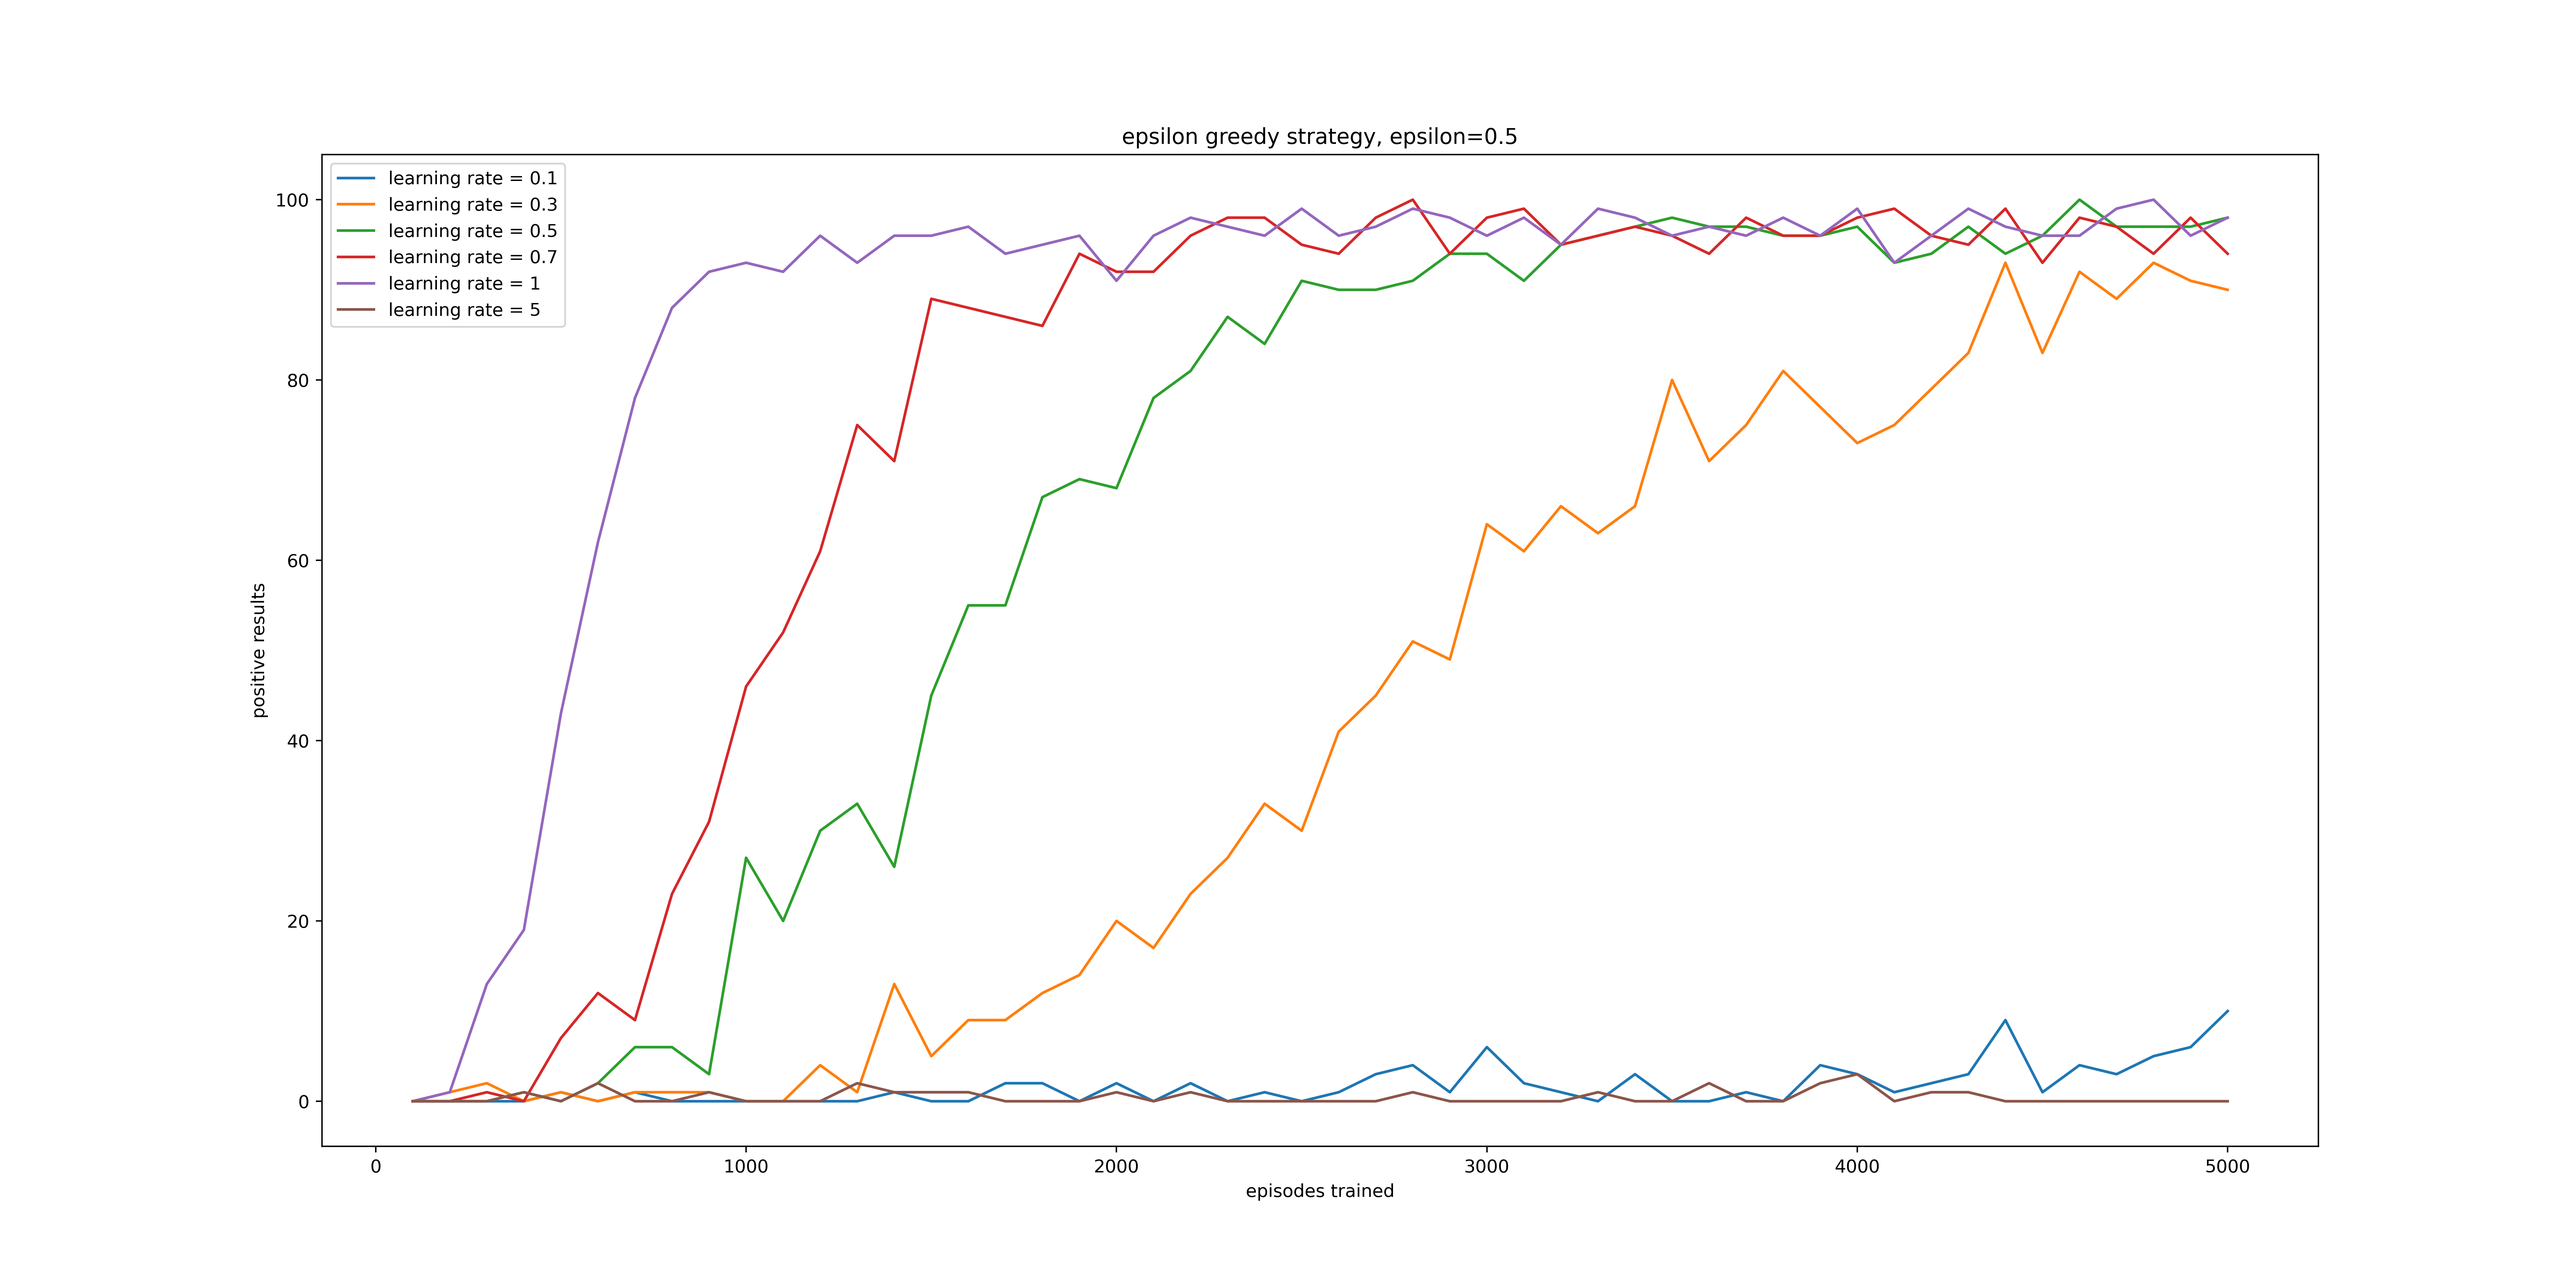
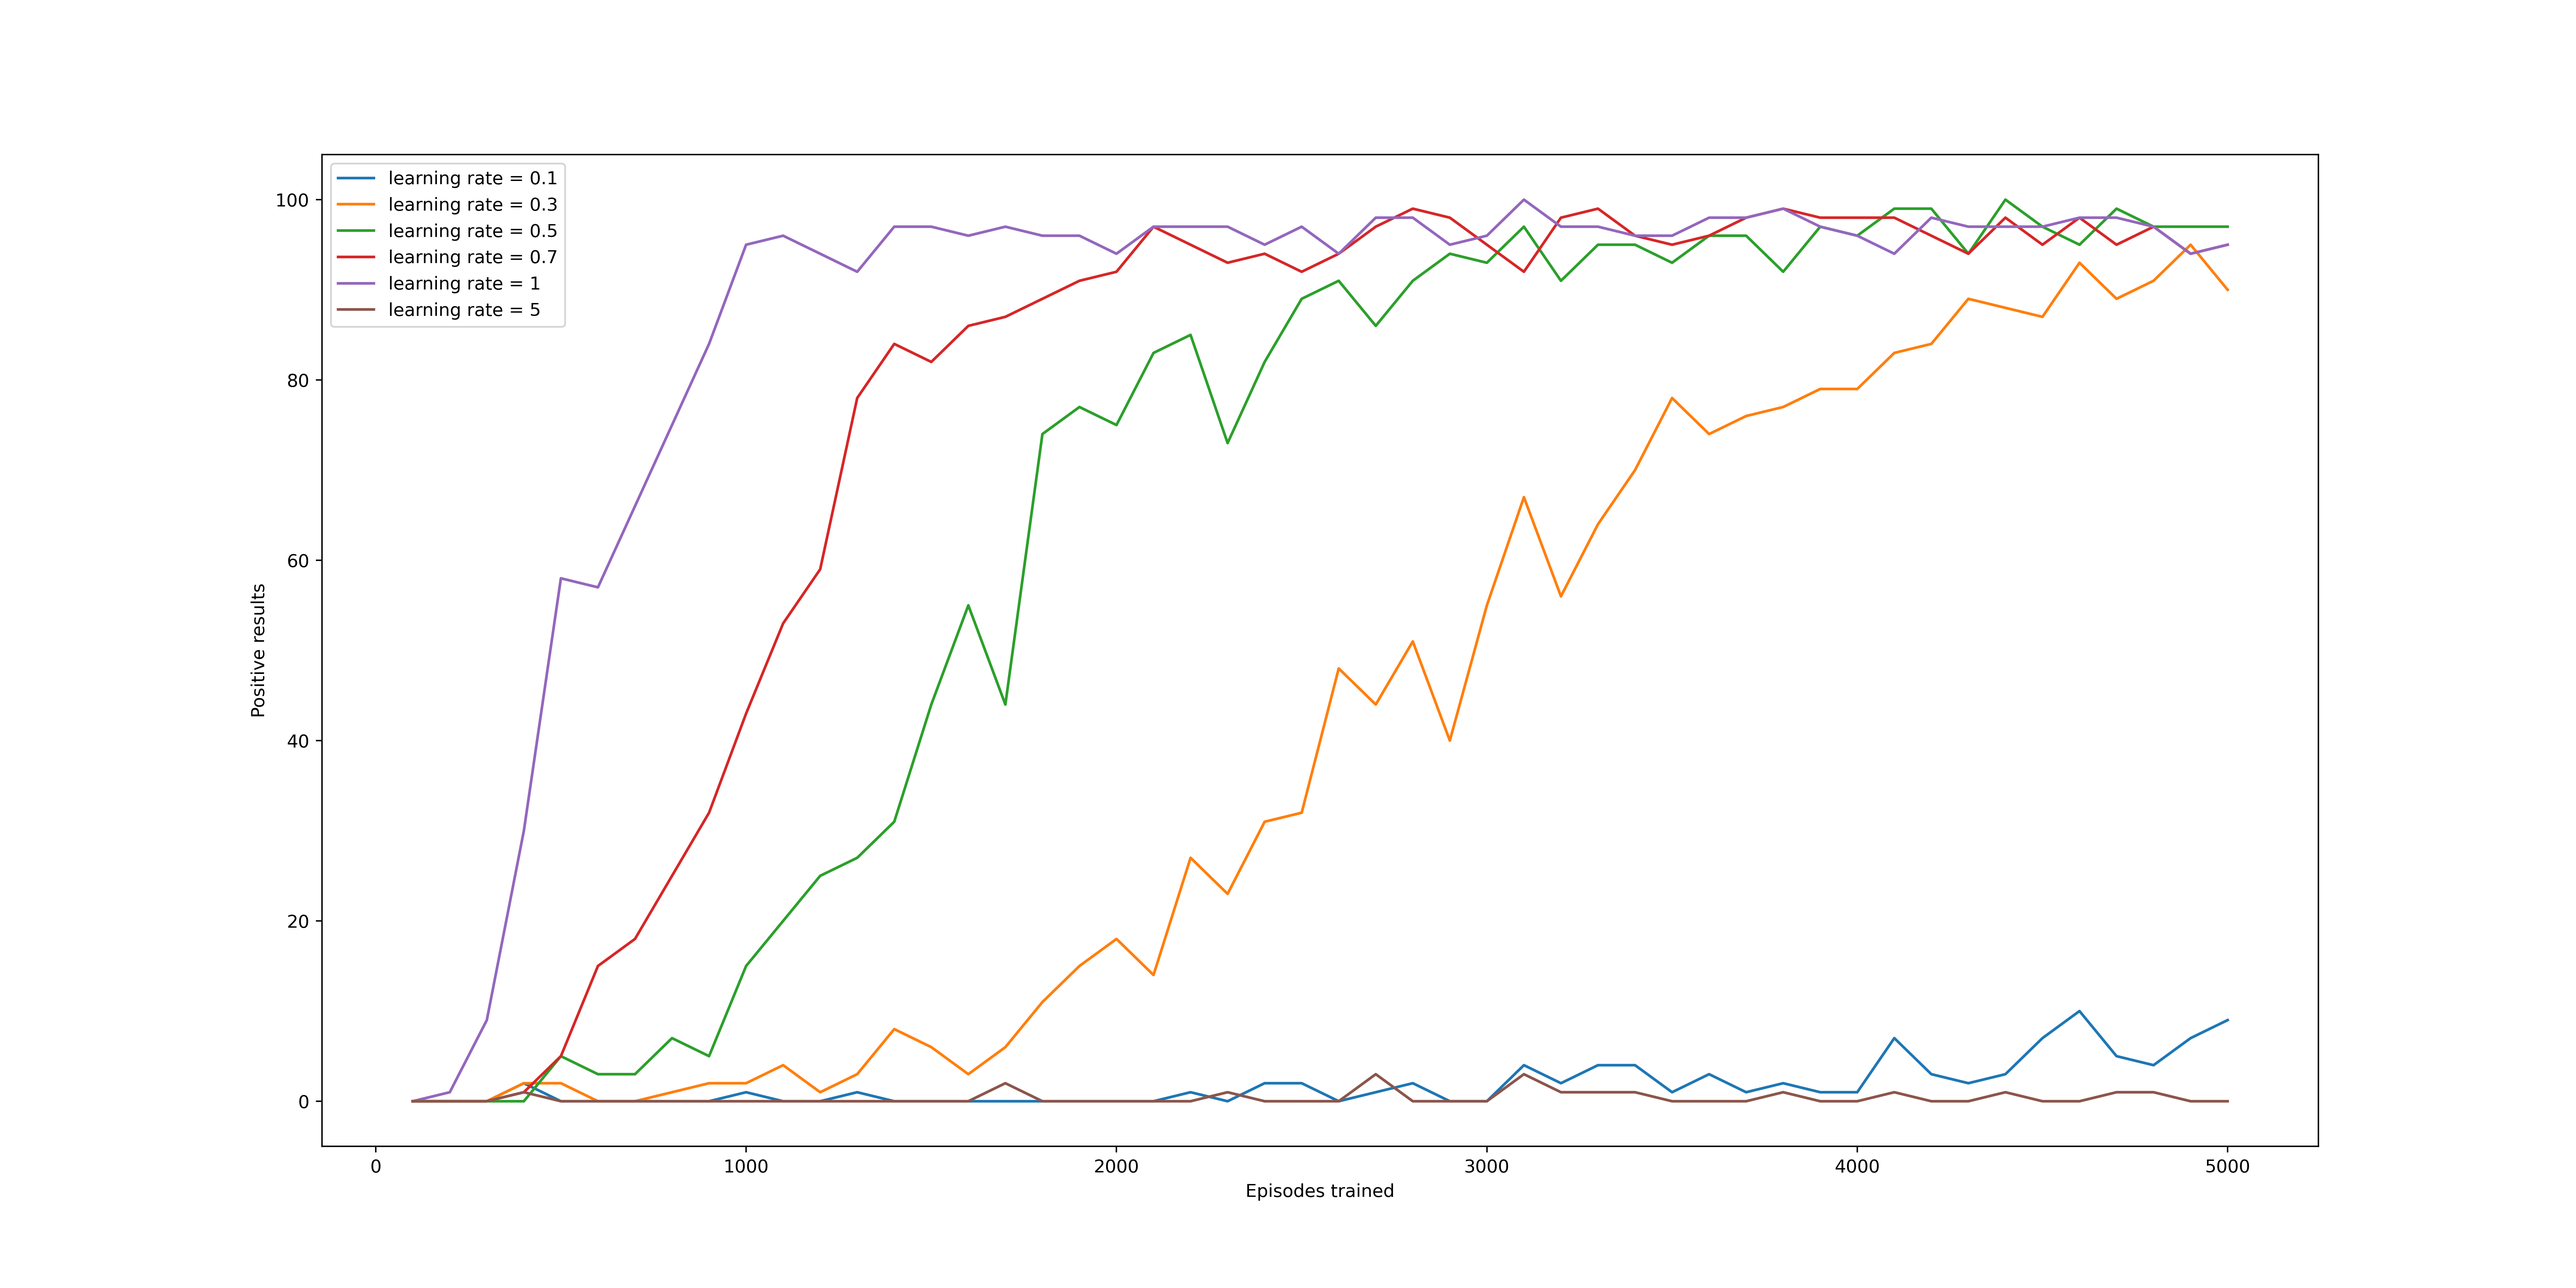
implemented numpy

diff --git a/Qlearning/Qtest.py b/Qlearning/Qtest.py
@@ -9,24 +9,28 @@ def test_boltzmann():
     moves = 50
     test_moves = 50
     learning_rates = [0.1,0.3,0.5,0.7,1,5]
+    taus = [0.1,1,10]
     Q_learn = Q_learning(initial_value=0, learning_rate=0.5, env=envi, discount_factor=0.1, from_jason=False, tau=2)
-    fig, ax = plt.subplots()
-    fig.set_figheight(10)
-    fig.set_figwidth(20)
-    ax.set_xlabel("Episodes trained")
-    ax.set_ylabel("Positive results")
-    for learning_rate in learning_rates:
-        results, episodesList = [], []
-        Q_learn.learning_rate = learning_rate
-        for i in range(50):
-            Q_learn.trainBoltzmann(episodes=episodes, turns=moves)
-            miniresults = Q_learn.test(episodes=episodes, turns=test_moves, useBoltzmann=True)
-            results.append(miniresults["boltzmann"]["positive"])
-            episodesList.append((i+1)*episodes)
-        Q_learn.resetTable()
-        ax.plot(episodesList, results, label=f"learning rate = {learning_rate}")
-        ax.legend()
-    fig.savefig("graphs/boltzmann", dpi=400)
+
+    for tau in taus:
+        Q_learn.tau = tau;
+        fig, ax = plt.subplots()
+        fig.set_figheight(10)
+        fig.set_figwidth(20)
+        ax.set_xlabel("Episodes trained")
+        ax.set_ylabel("Positive results")
+        for learning_rate in learning_rates:
+            results, episodesList = [], []
+            Q_learn.learning_rate = learning_rate
+            for i in range(50):
+                Q_learn.trainBoltzmann(episodes=episodes, turns=moves)
+                miniresults = Q_learn.test(episodes=episodes, turns=test_moves, useBoltzmann=True)
+                results.append(miniresults["boltzmann"]["positive"])
+                episodesList.append((i+1)*episodes)
+            Q_learn.resetTable()
+            ax.plot(episodesList, results, label=f"learning rate = {learning_rate}")
+            ax.legend()
+        fig.savefig(f"graphs/boltzmann,tau={tau}".replace('.', ','), dpi=400)
     envi.close()
 
 def test_greedy():
@@ -36,7 +40,7 @@ def test_greedy():
     moves = 50
     test_moves = 50
     learning_rates = [0.1,0.3,0.5,0.7,1,5]
-    Q_learn = Q_learning(initial_value=0, learning_rate=0.5, env=envi, discount_factor=0.1, from_jason=False, tau=2)
+    Q_learn = Q_learning(initial_value=0, learning_rate=0.5, env=envi, discount_factor=0.1, from_jason=False, tau=0.0000000000001)
     fig, ax = plt.subplots()
     fig.set_figheight(10)
     fig.set_figwidth(20)
@@ -53,9 +57,68 @@ def test_greedy():
         Q_learn.resetTable()
         ax.plot(episodesList, results, label=f"learning rate = {learning_rate}")
         ax.legend()
-    fig.savefig("graphs/greedy1", dpi=400)
+    fig.savefig("graphs/greedy", dpi=400)
+    envi.close()
+
+def test_epsilon_greedy():
+    envi = gym.make('Taxi-v3')
+    
+    episodes = 100
+    moves = 50
+    test_moves = 50
+    learning_rates = [0.1,0.3,0.5,0.7,1,5]
+    epsilons = [0.3, 0.5, 0.7]
+    Q_learn = Q_learning(initial_value=0, learning_rate=0.5, env=envi, discount_factor=0.1, from_jason=False, epsilon=1)
+    for epsilon in epsilons:
+        Q_learn.epsilon = epsilon
+        fig, ax = plt.subplots()
+        fig.set_figheight(10)
+        fig.set_figwidth(20)
+        ax.set_xlabel("Episodes trained")
+        ax.set_ylabel("Positive results")
+        for learning_rate in learning_rates:
+            results, episodesList = [], []
+            Q_learn.learning_rate = learning_rate
+            for i in range(50):
+                Q_learn.trainEpsilonGreedy(episodes=episodes, turns=moves)
+                miniresults = Q_learn.test(episodes=episodes, turns=test_moves, useEpsilonGreedy=True)
+                results.append(miniresults["epsilonGreedy"]["positive"])
+                episodesList.append((i+1)*episodes)
+            Q_learn.resetTable()
+            ax.plot(episodesList, results, label=f"learning rate = {learning_rate}")
+            ax.legend()
+        fig.savefig(f"graphs/epsilon_greedy,epsilon={epsilon}".replace('.',','), dpi=400)
+    envi.close()
+
+def test_count():
+    envi = gym.make('Taxi-v3')
+    
+    episodes = 100
+    moves = 50
+    test_moves = 50
+    learning_rates = [0.1,0.3,0.5,0.7,1,5]
+    Q_learn = Q_learning(initial_value=0, learning_rate=0.5, env=envi, discount_factor=0.1, from_jason=False)
+    fig, ax = plt.subplots()
+    fig.set_figheight(10)
+    fig.set_figwidth(20)
+    ax.set_xlabel("Episodes trained")
+    ax.set_ylabel("Positive results")
+    for learning_rate in learning_rates:
+        results, episodesList = [], []
+        Q_learn.learning_rate = learning_rate
+        for i in range(50):
+            Q_learn.trainGreedy(episodes=episodes, turns=moves)
+            miniresults = Q_learn.test(episodes=episodes, turns=test_moves, useCount=True)
+            results.append(miniresults["count"]["positive"])
+            episodesList.append((i+1)*episodes)
+        Q_learn.resetTable()
+        ax.plot(episodesList, results, label=f"learning rate = {learning_rate}")
+        ax.legend()
+    fig.savefig("graphs/count", dpi=400)
     envi.close()
 
 if __name__ == "__main__":
     test_boltzmann()
-    #test_greedy()
+    test_greedy()
+    test_epsilon_greedy()
+    test_count()

diff --git a/Qlearning/Qlearn.py b/Qlearning/Qlearn.py
@@ -1,7 +1,7 @@
 import random
 import json
 import os
-import math
+import numpy as np
 
 class Q_learning:
     def __init__(self, initial_value, learning_rate, env, discount_factor, from_jason=False, epsilon=1, tau=1):
@@ -15,31 +15,22 @@ class Q_learning:
         self.discount_factor = discount_factor
         self.epsilon = epsilon
         self.tau = tau
-        self.movesCount = {0:0, 1:0, 2:0, 3:0, 4:0, 5:0}
+        self.movesCount = np.zeros(6)
     
     def resetTable(self):
         self.table = self.generateTable()
 
     def generateTable(self):
-        Q_dict = dict()
-        for i in range(500):
-            Q_dict[i] = [random.uniform(-1, 1) for _ in range(6)]
-        return Q_dict
+        Q_dict = []
+        for _ in range(500):
+            Q_dict.append(np.array([random.uniform(-1, 1) for _ in range(6)]))
+        return np.array(Q_dict)
     
     def greedyChoice(self, state):
         """
         Choose action that has the higest Q-value.
         """
-        moves = self.table[state]
-        maxMove = max(moves)
-        goodMoves = []
-        for i, move in enumerate(moves):
-            if move == maxMove:
-                goodMoves.append(i)
-        if len(goodMoves) == 0:
-            return 0
-        else:
-            return random.choice(goodMoves)
+        return np.argmax(self.table[state])
     
     def epsilonGreedyChoice(self, state):
         """
@@ -56,35 +47,23 @@ class Q_learning:
         Choose action with probability from Boltzmann distribution.
         """
         moves = self.table[state]
-        moveProb = []
-        denominator = 0
-        for qvalue in moves:
-            try:
-                denominator += math.exp((qvalue)/self.tau)
-            except OverflowError:
-                denominator = float('inf')
-                break
-        for qvalue in moves:
-            try:
-                moveProb.append(math.exp((qvalue)/self.tau)/denominator)
-            except OverflowError:
-                moveProb.append(0.0)
-        values = [0,1,2,3,4,5]
-        return random.choices(values, moveProb)[0]
+        exped = np.exp(moves)
+        denominator = np.sum(np.divide(exped, self.tau))
+        moveProb = np.divide(exped, denominator)
+        return random.choices(range(6), moveProb)[0]
 
     def countChoice(self, state):
         """
-        Choose action that has been chosen the least amount of times.
+        Choose action that has been chosen the least amount of times 20% of the time.
+        Else, choose greedily.
         """
-        minMove = min(self.movesCount.values())
-        goodMoves = []
-        for key, value in self.movesCount.items():
-            if value == minMove:
-                goodMoves.append(key)
-        choice = random.choice(goodMoves)
-        self.movesCount[choice] += 1
-        print(choice)
-        return choice
+        choice = random.uniform(0,1)
+        if choice >= 0.2:
+            move = self.greedyChoice(state)
+        else:
+            move = np.argmin(self.movesCount)
+        self.movesCount[move] += 1
+        return move
     
     def trainGreedy(self, episodes, turns):
         """
